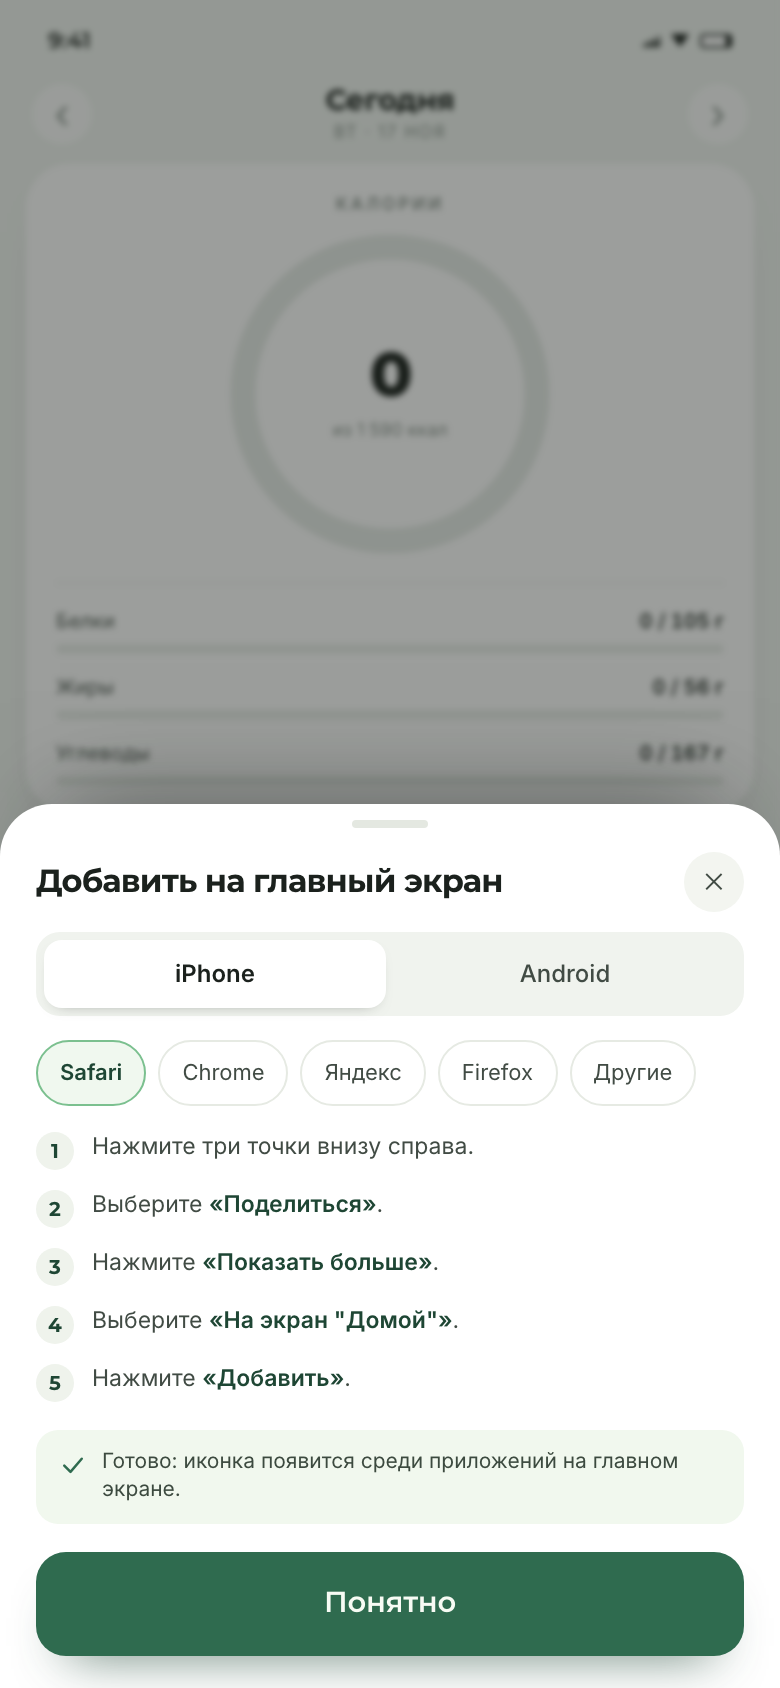
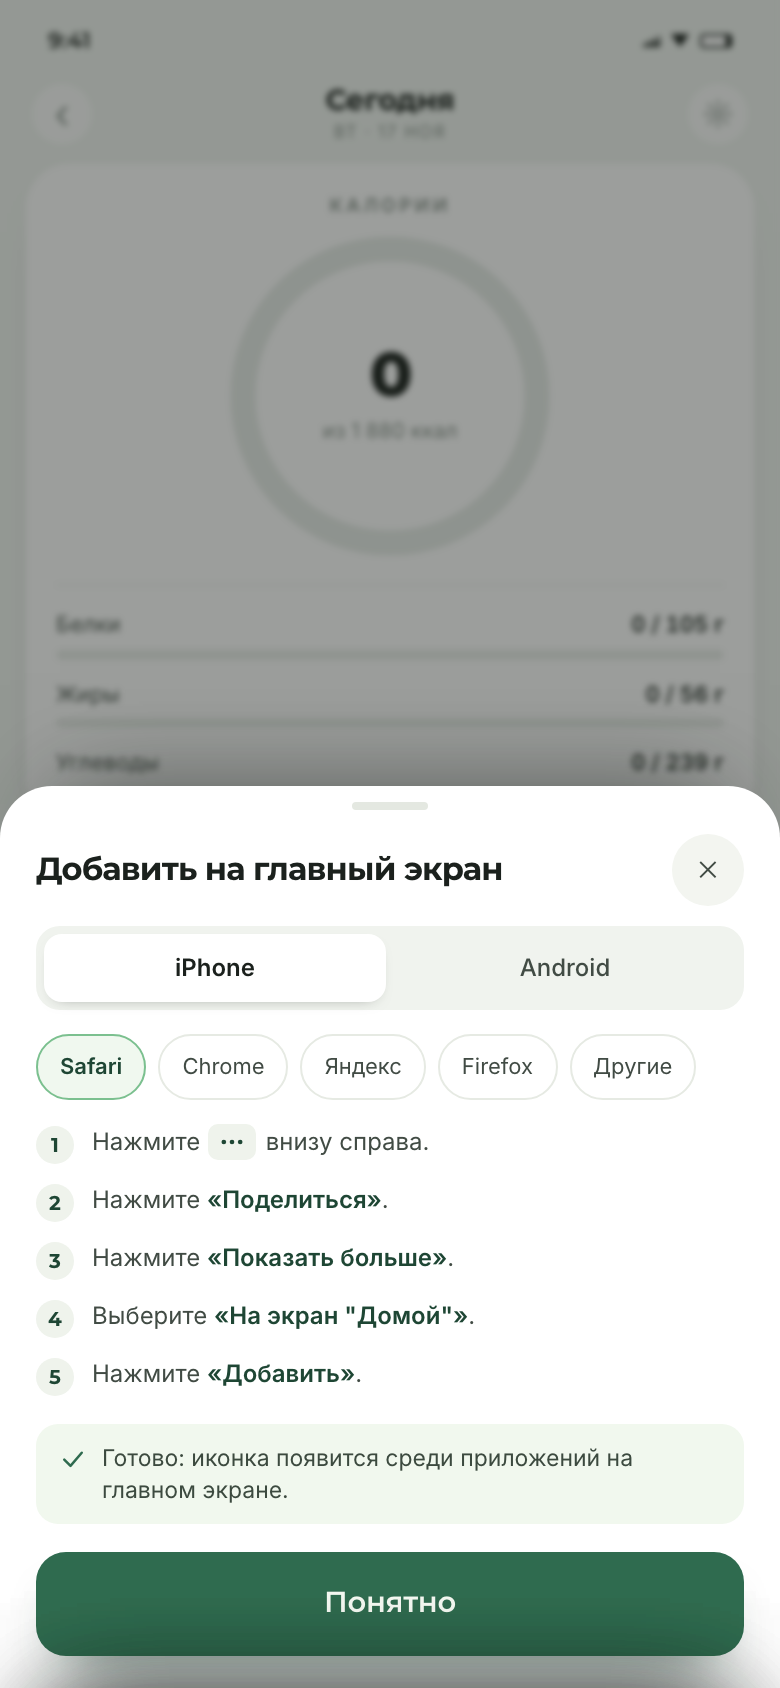
Инструкция установки: три точки иконкой и первым шагом
В шагах для Safari кнопка меню показана горизонтальной иконкой,
а сам шаг стал первым — с него начинается установка.

diff --git a/web/src/components/InstallGuide.tsx b/web/src/components/InstallGuide.tsx
@@ -131,20 +131,35 @@ function detectBrowser(platform: Platform): BrowserId {
   return GUIDES[platform][0].id;
 }
 
-/** Выделяет «названия кнопок» в шагах: так инструкция читается с одного взгляда. */
+/** Иконка «три точки» — так в шагах показываем кнопку меню Safari. */
+function IconDots() {
+  return (
+    <span className="step__dots" aria-label="три точки">
+      <svg viewBox="0 0 24 24" width="16" height="16" aria-hidden="true">
+        <circle cx="5" cy="12" r="2" fill="currentColor" />
+        <circle cx="12" cy="12" r="2" fill="currentColor" />
+        <circle cx="19" cy="12" r="2" fill="currentColor" />
+      </svg>
+    </span>
+  );
+}
+
+/** Выделяет «названия кнопок» и иконки в шагах: так инструкция читается с одного взгляда. */
 function StepText({ text }: { text: string }) {
-  const parts = text.split(/(«[^»]*»)/g);
+  const parts = text.split(/(«[^»]*»|\{dots\})/g);
   return (
     <>
-      {parts.map((part, i) =>
-        part.startsWith('«') ? (
-          <b key={i} className="step__ui">
-            {part}
-          </b>
-        ) : (
-          <span key={i}>{part}</span>
-        ),
-      )}
+      {parts.map((part, i) => {
+        if (part === '{dots}') return <IconDots key={i} />;
+        if (part.startsWith('«')) {
+          return (
+            <b key={i} className="step__ui">
+              {part}
+            </b>
+          );
+        }
+        return <span key={i}>{part}</span>;
+      })}
     </>
   );
 }

diff --git a/landing/onboarding/script.js b/landing/onboarding/script.js
@@ -438,8 +438,8 @@
   var GUIDES = {
     ios: [
       { id: 'safari', name: 'Safari', steps: [
-        'Нажмите «Поделиться» внизу.',
-        'Нажмите три точки снизу справа.',
+        'Нажмите {dots} внизу справа.',
+        'Нажмите «Поделиться».',
         'Нажмите «Показать больше».',
         'Выберите «На экран "Домой"».',
         'Нажмите «Добавить».'
@@ -499,7 +499,10 @@
   var inst = { platform: 'ios', browser: 'safari', shown: false };
 
   function boldUi(text) {
-    return text.split(/(«[^»]*»)/g).map(function (part) {
+    return text.split(/(«[^»]*»|\{dots\})/g).map(function (part) {
+      if (part === '{dots}') {
+        return '<span class="ui-dots" aria-label="три точки"><svg viewBox="0 0 24 24"><circle cx="5" cy="12" r="2"/><circle cx="12" cy="12" r="2"/><circle cx="19" cy="12" r="2"/></svg></span>';
+      }
       return part.charAt(0) === '«' ? '<b>' + part + '</b>' : part;
     }).join('');
   }

diff --git a/web/src/styles/app.css b/web/src/styles/app.css
@@ -1665,6 +1665,18 @@ h6 {
   font-weight: 600;
   color: var(--accent-ink);
 }
+/* Иконка кнопки внутри шага: три точки горизонтально. */
+.step__dots {
+  display: inline-flex;
+  align-items: center;
+  justify-content: center;
+  height: 20px;
+  padding: 0 5px;
+  border-radius: 6px;
+  background-color: var(--accent-soft);
+  color: var(--accent-ink);
+  vertical-align: -4px;
+}
 .install__tip {
   display: flex;
   align-items: flex-start;

diff --git a/landing/onboarding/styles.css b/landing/onboarding/styles.css
@@ -624,3 +624,11 @@ input{font:inherit;color:inherit}
 .gsteps .txt{font-size:12px}
 .gtip{font-size:11.5px}
 .ask__sub{font-size:12px}
+
+/* Иконка «три точки» внутри инструкции */
+.ui-dots{
+  display:inline-flex;align-items:center;justify-content:center;
+  height:18px;padding:0 5px;border-radius:5px;
+  background:#EFF3EC;color:var(--green-deep);vertical-align:-3px;margin:0 1px;
+}
+.ui-dots svg{width:14px;height:14px;fill:currentColor}
